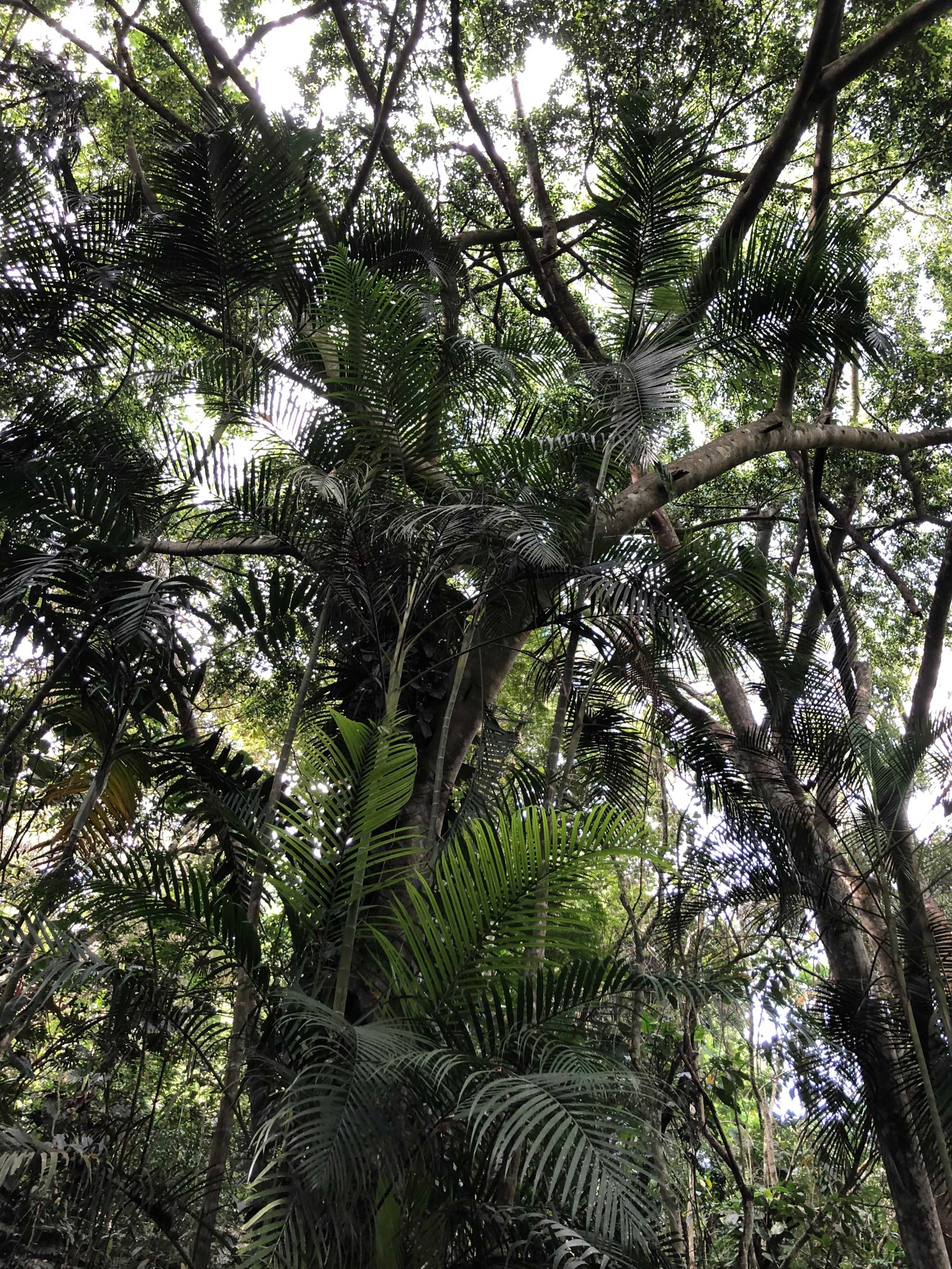
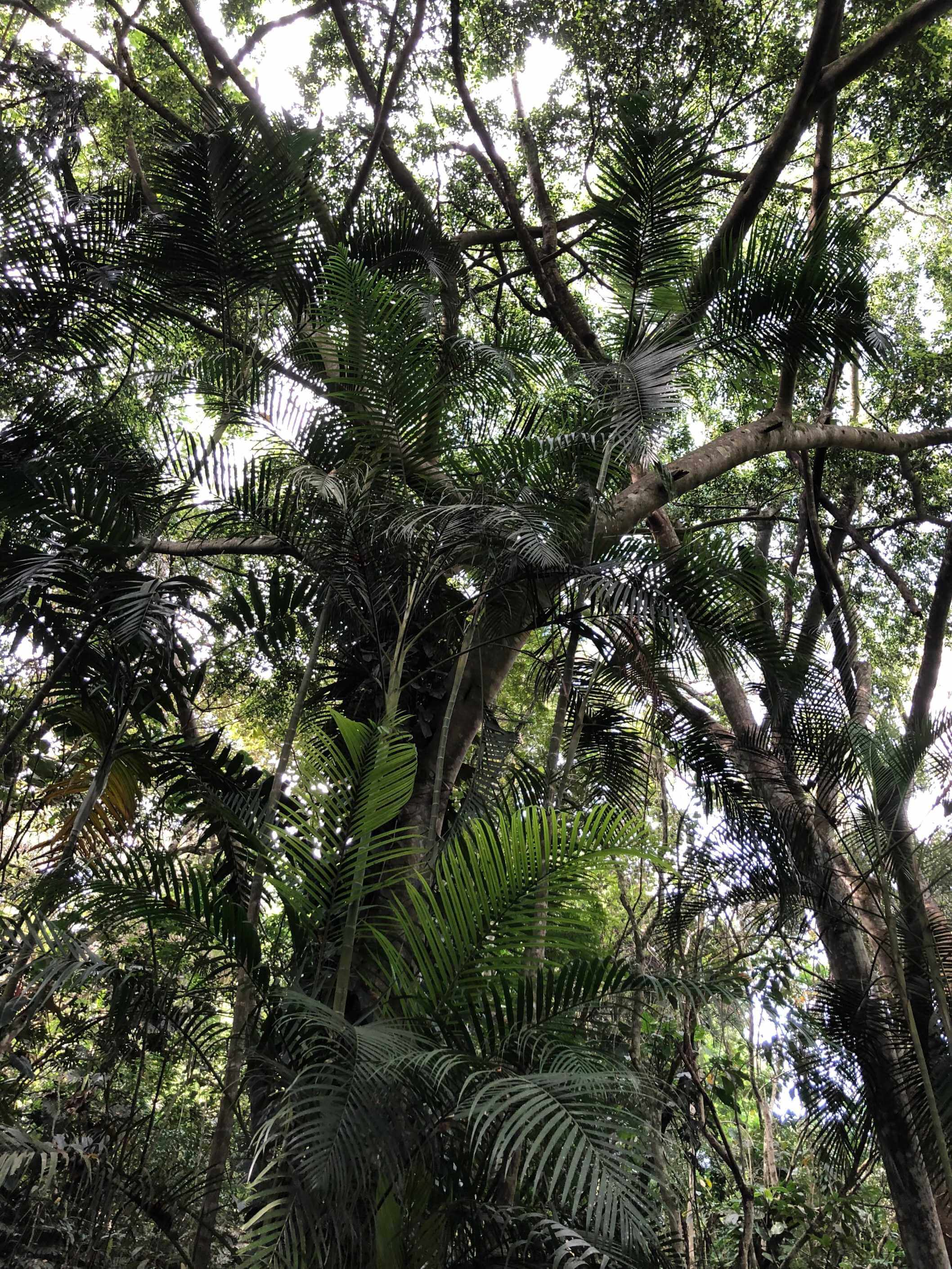
reduce image size

diff --git a/global.html b/global.html
@@ -141,7 +141,7 @@
         <div class="row g-5 py-3 align-items-center">
           <div class="col-lg-4 order-2 order-lg-1 wow fadeInLeft">
             <div class="position-relative overlay-wrapper">
-              <img src="asset/img/further-reading/pes.jpeg" alt="Video 1" class="w-100 rounded shadow" />
+              <img src="asset/img/further-reading/pes.jpg" alt="Video 1" class="w-100 rounded shadow" />
               <div class="color-overlay rounded"></div>
 
               <!-- Animated play icon -->
